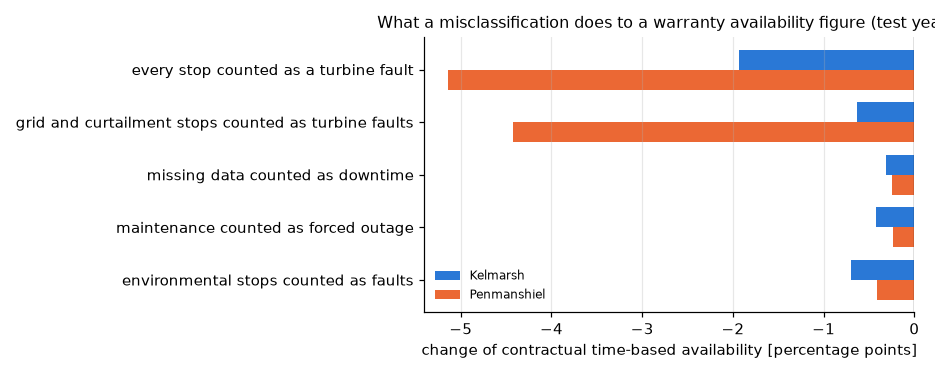
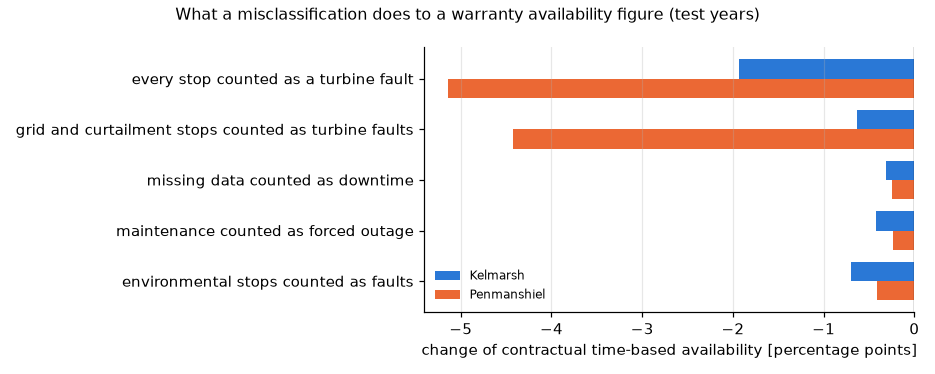
Keep the title of the availability scenarios chart inside the figure

diff --git a/src/wind_downtime/report.py b/src/wind_downtime/report.py
@@ -126,7 +126,9 @@ def fig_scenarios(scen: pd.DataFrame, path: Path) -> None:
     ax.invert_yaxis()
     ax.axvline(0, color="k", lw=0.8)
     ax.set_xlabel("change of contractual time-based availability [percentage points]")
-    ax.set_title("What a misclassification does to a warranty availability figure (test years)")
+    # figure-level title: the long y labels push the axes right, so an axes title gets cut at the edge
+    fig.suptitle("What a misclassification does to a warranty availability figure (test years)",
+                 fontsize=plt.rcParams["axes.titlesize"])
     ax.legend(frameon=False, fontsize=8)
     ax.grid(axis="x", alpha=0.3)
     fig.tight_layout()
